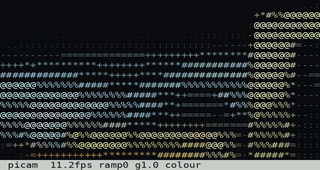
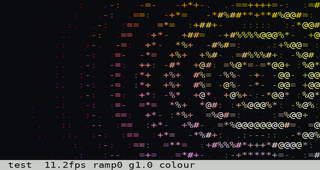
0.2.1: honest fps, simpler colour, 256-colour default output
The fps counter averaged instantaneous rates, so a terminal-bound 1-2fps
session read as 20+; it now counts frames per wall-clock second. Colour
drops the per-cell brightness gain (which clipped dark noise into pure
primaries) for the same global contrast stretch the glyphs use, and
emits xterm 6x6x6 cube escapes by default (--truecolor to opt out):
about 40% fewer bytes per frame, which is what the LCD console needed.

diff --git a/asciicam.py b/asciicam.py
@@ -23,7 +23,7 @@ import tty
 
 import numpy as np
 
-VERSION = "0.2.0"
+VERSION = "0.2.1"
 
 RAMPS = [
     " .:-=+*#%@",
@@ -182,22 +182,35 @@ def render(frame, cols, rows, st):
     plain = ["".join(r) for r in chars]
     if not st["colour"]:
         return plain, plain
-    # Colour is the cell's averaged hue with its brightness replaced by the
-    # same stretched luminance that picked the glyph, so colour and glyph
-    # density always agree; quantised so flat areas form long runs.
-    cell_lum = np.maximum(small @ LUMA, 1.0)[..., None]
-    rgb = np.clip(small * (lum[..., None] * 255.0 / cell_lum),
-                  0, 255).astype(np.uint8)
-    rgb &= 0xF0
+    # Colour: the averaged cell through the SAME global contrast stretch as
+    # the glyphs - one linear map, no per-cell gain, so dark noise can't
+    # blow up into saturated primaries. Default output is the xterm 6x6x6
+    # cube: escapes are half the bytes of truecolour and quantising to six
+    # levels makes long equal-colour runs, which is what slow terminals
+    # (the LCD console) actually need.
+    lo, hi = st["lo"], st["hi"]
+    rgb = np.clip((small - lo) / max(hi - lo, 1e-6), 0.0, 1.0)
     out = []
+    if st["truecolor"]:
+        q = (rgb * 255).astype(np.uint8) & 0xE0
+        for y in range(rows):
+            row, cells = q[y], plain[y]
+            cut = np.flatnonzero(np.r_[True, (row[1:] != row[:-1]).any(1)])
+            parts = ["\x1b[38;2;%d;%d;%dm%s"
+                     % (row[s, 0], row[s, 1], row[s, 2],
+                        cells[s:(cut[i + 1] if i + 1 < len(cut) else cols)])
+                     for i, s in enumerate(cut)]
+            out.append("".join(parts) + "\x1b[0m")
+        return out, plain
+    cube = (rgb * 5.999).astype(np.uint8)
+    n256 = 16 + 36 * cube[..., 0] + 6 * cube[..., 1] + cube[..., 2]
     for y in range(rows):
-        row, cells = rgb[y], plain[y]
-        cut = np.flatnonzero(np.r_[True, (row[1:] != row[:-1]).any(1)])
-        parts = []
-        for i, s in enumerate(cut):
-            e = cut[i + 1] if i + 1 < len(cut) else cols
-            parts.append("\x1b[38;2;%d;%d;%dm%s"
-                         % (row[s, 0], row[s, 1], row[s, 2], cells[s:e]))
+        row, cells = n256[y], plain[y]
+        cut = np.flatnonzero(np.r_[True, row[1:] != row[:-1]])
+        parts = ["\x1b[38;5;%dm%s"
+                 % (row[s],
+                    cells[s:(cut[i + 1] if i + 1 < len(cut) else cols)])
+                 for i, s in enumerate(cut)]
         out.append("".join(parts) + "\x1b[0m")
     return out, plain
 
@@ -219,17 +232,21 @@ def main():
     ap.add_argument("--fps", type=float, default=15.0)
     ap.add_argument("--frames", type=int, default=0,
                     help="stop after N frames (0 = run until q)")
+    ap.add_argument("--truecolor", action="store_true",
+                    help="24-bit colour escapes (default: xterm 256-colour)")
     args = ap.parse_args()
     size = tuple(int(v) for v in args.size.lower().split("x"))
 
     src, name = open_source(args.source, size)
     # the Cardputer Zero camera module is mounted rotated 180 degrees
     st = dict(ramp=0, invert=False, colour=False, edges=False,
-              mirror=(name == "picam"), vflip=(name == "picam"), gamma=1.0)
+              mirror=(name == "picam"), vflip=(name == "picam"),
+              truecolor=args.truecolor, gamma=1.0)
     interactive = sys.stdin.isatty()
     old = termios.tcgetattr(sys.stdin) if interactive else None
     out = sys.stdout
-    msg, n, fps, last = "", 0, 0.0, time.time()
+    msg, n, fps = "", 0, 0.0
+    win_n, win_t0 = 0, time.time()
     try:
         if interactive:
             tty.setcbreak(sys.stdin.fileno())
@@ -272,11 +289,16 @@ def main():
                 msg = "saved " + fn
 
             n += 1
+            win_n += 1
             if args.frames and n >= args.frames:
                 break
+            # frames actually delivered per wall-clock second: a blocked
+            # terminal write slows this honestly, where averaging
+            # instantaneous rates inflated it
             now = time.time()
-            fps = 0.9 * fps + 0.1 / max(now - last, 1e-6) if fps else 1 / max(now - last, 1e-6)
-            last = now
+            if now - win_t0 >= 1.0:
+                fps = win_n / (now - win_t0)
+                win_n, win_t0 = 0, now
             time.sleep(max(0.0, 1.0 / args.fps - (time.time() - t0)))
     except KeyboardInterrupt:
         pass

diff --git a/gen_assets.py b/gen_assets.py
@@ -43,15 +43,18 @@ def cells(frame, st):
     lum = small @ cam.LUMA
     if st["edges"]:
         lum = cam.edges(lum)
-    lum = cam.stretch(lum, dict(st)) ** st["gamma"]
+    sst = dict(st)
+    lum = cam.stretch(lum, sst) ** st["gamma"]
     if st["invert"]:
         lum = 1.0 - lum
     ramp = cam.RAMPS[st["ramp"]]
     idx = np.minimum((lum * len(ramp)).astype(int), len(ramp) - 1)
     chars = np.array(list(ramp))[idx]
-    cell_lum = np.maximum(small @ cam.LUMA, 1.0)[..., None]
-    rgb = np.clip(small * (lum[..., None] * 255.0 / cell_lum),
-                  0, 255).astype(int) & 0xF0
+    # same global stretch as the glyphs, snapped to the xterm cube levels
+    rgb01 = np.clip((small - sst["lo"]) / max(sst["hi"] - sst["lo"], 1e-6),
+                    0.0, 1.0)
+    cube = (rgb01 * 5.999).astype(int)
+    rgb = np.array([0, 95, 135, 175, 215, 255])[cube]
     return chars, rgb
 
 
